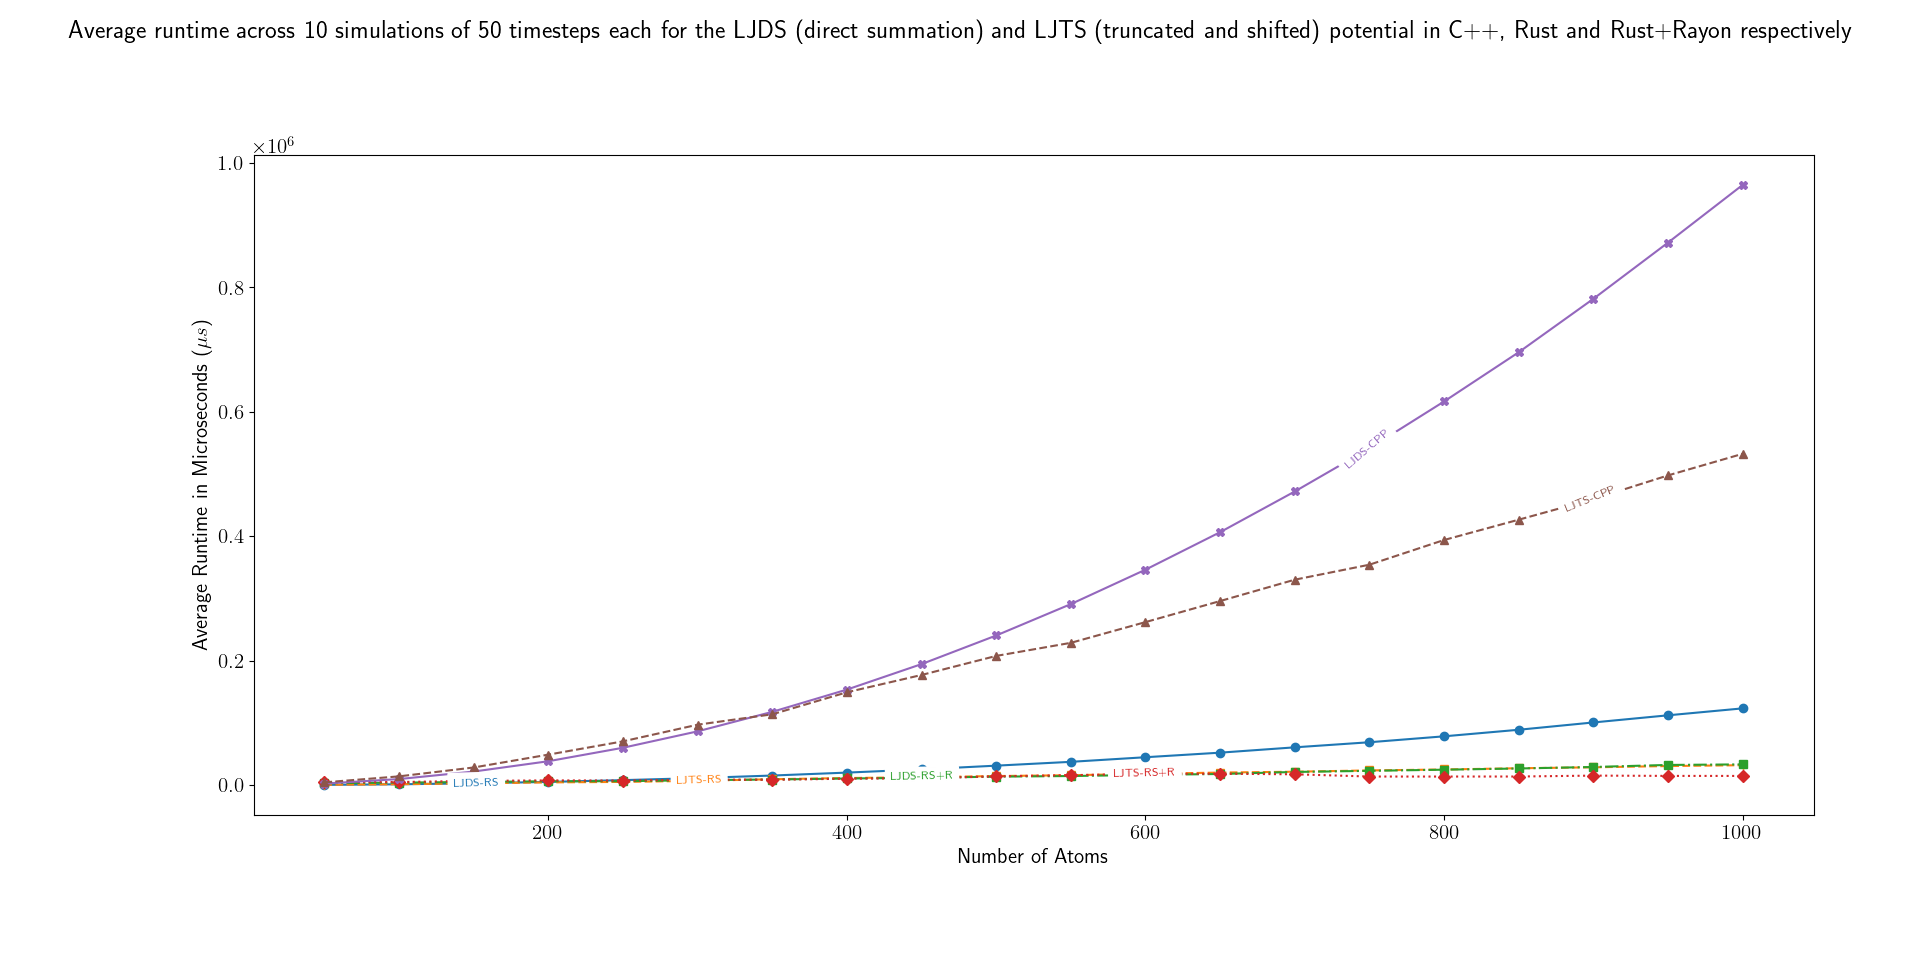
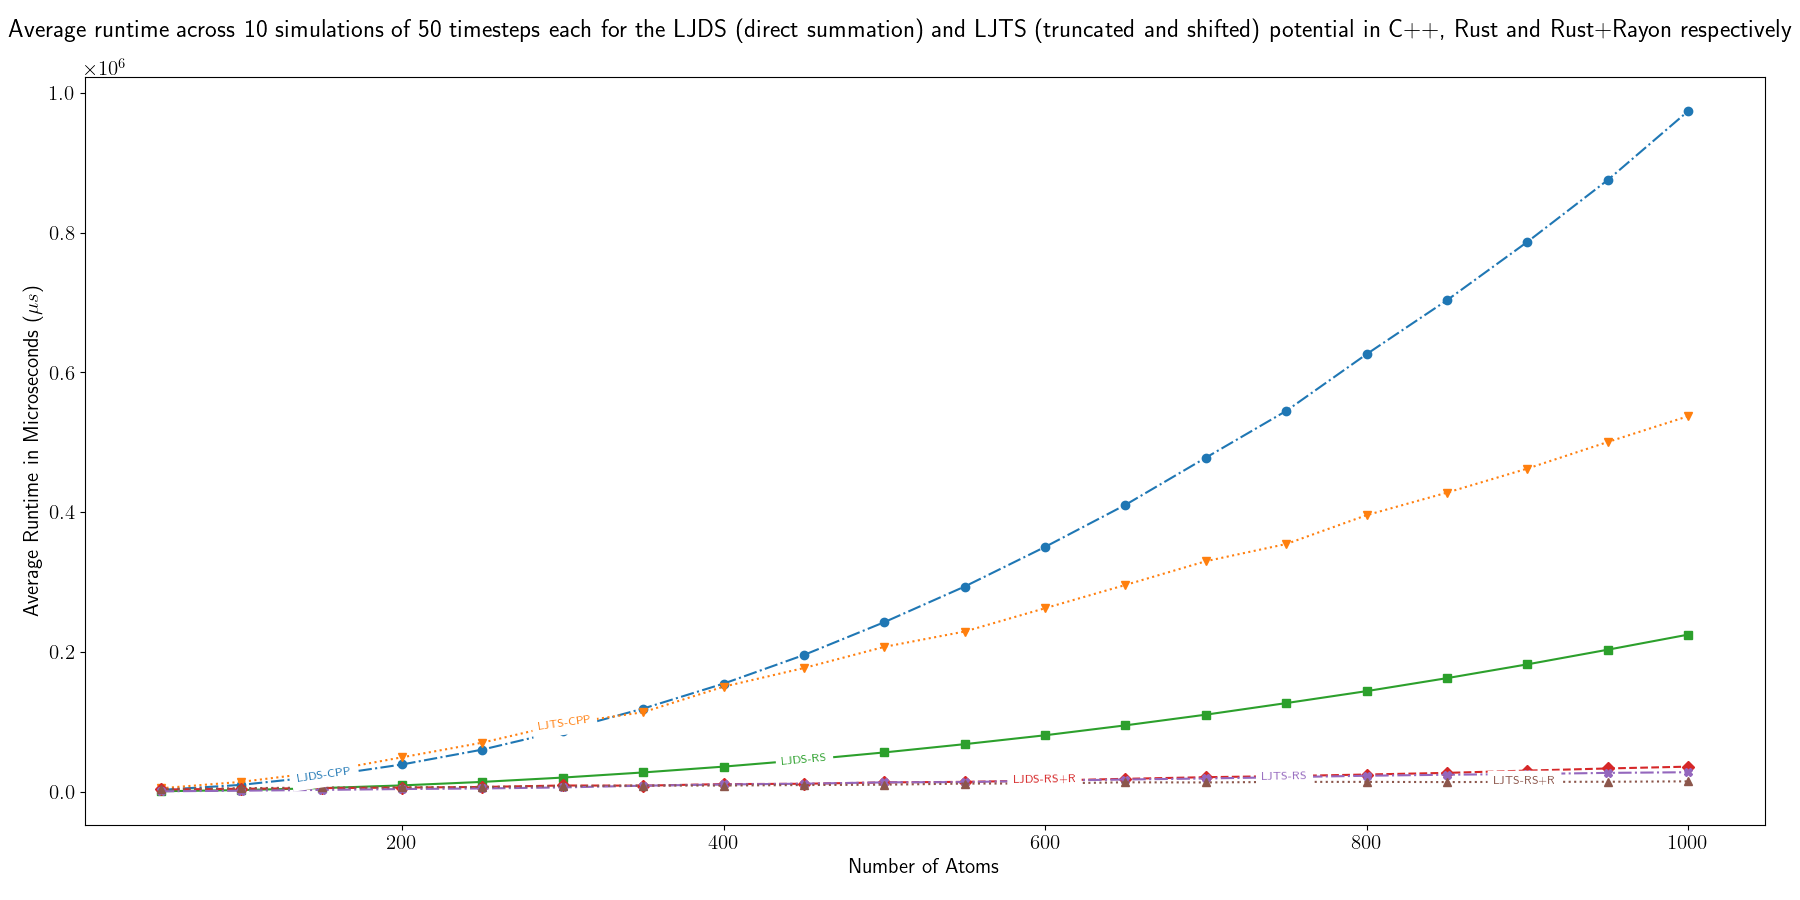
Add stddev to plot

diff --git a/analysis/runtimes.py b/analysis/runtimes.py
@@ -96,7 +96,7 @@ def labelLines(lines, align=True, xvals=None, **kwargs):
 
 
 # read data from csv and plot it
-def plot_from_csv(filename: str, firstcol: str, name: str):
+def plot_from_csv(filename: str, firstcol: str, name: str, plot_stddev: bool):
     stddev_low: list[float] = []
     stddev_high: list[float] = []
     xs: list[float] = []
@@ -112,35 +112,58 @@ def plot_from_csv(filename: str, firstcol: str, name: str):
     color = next(plt.gca()._get_lines.prop_cycler)['color']
     plt.plot(xs, ys, next(linestyles), label=name,
              marker=next(markerstyles), color=color)
-    # plt.fill_between(xs, stddev_low, stddev_high, color=color, alpha=0.2)
+    if plot_stddev:
+        plt.fill_between(xs, stddev_low, stddev_high, color=color, alpha=0.2)
 
 
 # cycle through styles to improve readability
 linestyles = cycle([".-", "--", "-.", ":"])
 markerstyles = cycle(["o", "v", "s", "D", "X", "^", "*"])
 
-# setup titles, legends etc
-plt.suptitle("Average runtime across 10 simulations of 50 timesteps each for the LJDS (direct summation) \
-             and LJTS (truncated and shifted) potential in C++, Rust and Rust+Rayon respectively")
-# plt.figtext(0.5, 0.02, "(shaded regions show the corrected standard deviation)", ha="center",
-#             fontsize=10)
-plt.xlabel(r"Number of Atoms")
-plt.ylabel(r"Average Runtime in Microseconds ($\mu s$)")
-plt.yscale("log")
-plt.tight_layout()
 
 # plot the data
-plot_from_csv("../builddir/runtimes.csv", "direct", "LJDS-CPP")
-plot_from_csv("../builddir/runtimes3.csv", "ljts", "LJTS-CPP")
-plot_from_csv("../rust/runtimes.csv", "direct", "LJDS-RS")
-plot_from_csv("../rust/runtimes_par.csv", "direct", "LJDS-RS+R")
-plot_from_csv("../rust/runtimes.csv", "ljts", "LJTS-RS")
-plot_from_csv("../rust/runtimes_par.csv", "ljts", "LJTS-RS+R")
+def plot_all_sets(log: bool, legend: bool, plot_stddev: bool):
+    # setup titles, legends etc
+    plt.suptitle("Average runtime across 10 simulations of 50 timesteps each for the LJDS (direct summation) \
+                and LJTS (truncated and shifted) potential in C++, Rust and Rust+Rayon respectively")
+    plt.xlabel(r"Number of Atoms")
+    plt.ylabel(r"Average Runtime in Microseconds ($\mu s$)")
+    plt.tight_layout()
+    plt.gcf().set_size_inches(18., 9., forward=True)
+    plot_from_csv("../builddir/runtimes.csv",
+                  "direct", "LJDS-CPP", plot_stddev)
+    plot_from_csv("../builddir/runtimes.csv", "ljts", "LJTS-CPP", plot_stddev)
+    plot_from_csv("../rust/runtimes.csv", "direct", "LJDS-RS", plot_stddev)
+    plot_from_csv("../rust/runtimes_par.csv",
+                  "direct", "LJDS-RS+R", plot_stddev)
+    plot_from_csv("../rust/runtimes.csv", "ljts", "LJTS-RS", plot_stddev)
+    plot_from_csv("../rust/runtimes_par.csv", "ljts", "LJTS-RS+R", plot_stddev)
+    if legend:
+        plt.legend(fontsize="12")
+    else:
+        labelLines(plt.gca().get_lines(), zorder=2.5, fontsize=8)
+    if log:
+        plt.yscale("log")
+    else:
+        plt.yscale("linear")
+    if plot_stddev:
+        plt.figtext(0.5, 0.02, "(shaded regions show the corrected standard deviation)", ha="center",
+                    fontsize=10)
+    # plt.show()
+    plt.savefig("runtimes"
+                + ("_log" if log else "")
+                + ("_legend" if legend else "")
+                + ("_stddev" if plot_stddev else "")
+                + ".png")
+    plt.clf()
+
+
+# plot all variations of the graph and save to file
+for log in [True, False]:
+    for legend in [True, False]:
+        for plot_stddev in [True, False]:
+            plot_all_sets(log, legend, plot_stddev)
 
 # plot_from_csv("../builddir/runtimes_ts.csv", "ljts", "LJTS-CPP")
 # plot_from_csv("../rust/runtimes_ts.csv", "ljts", "LJTS-RS")
 # plot_from_csv("../rust/runtimes_ts_par.csv", "ljts", "LJTS-RS+R")
-
-labelLines(plt.gca().get_lines(), zorder=2.5, fontsize=8)
-# plt.legend(fontsize="12")
-plt.show()

diff --git a/README.md b/README.md
@@ -1,6 +1,6 @@
 # Molecular Dynamics in C++
 
-Repository for coursework concerning the summer 2024 course [Molecular Dynamics in C++](https://pastewka.github.io/MolecularDynamics/) at the University of Freiburg.
+Repository for coursework concerning the summer 2024 course [Molecular Dynamics in C++](https://pastewka.github.io/MolecularDynamics/) at the University of Freiburg, forked from [the MD Meson Template](https://github.com/imtek-simulation/meson-skeleton/).
 
 
 - `/src` and `/tests` contain the library source code and tests in C++ using Eigen and gtest
